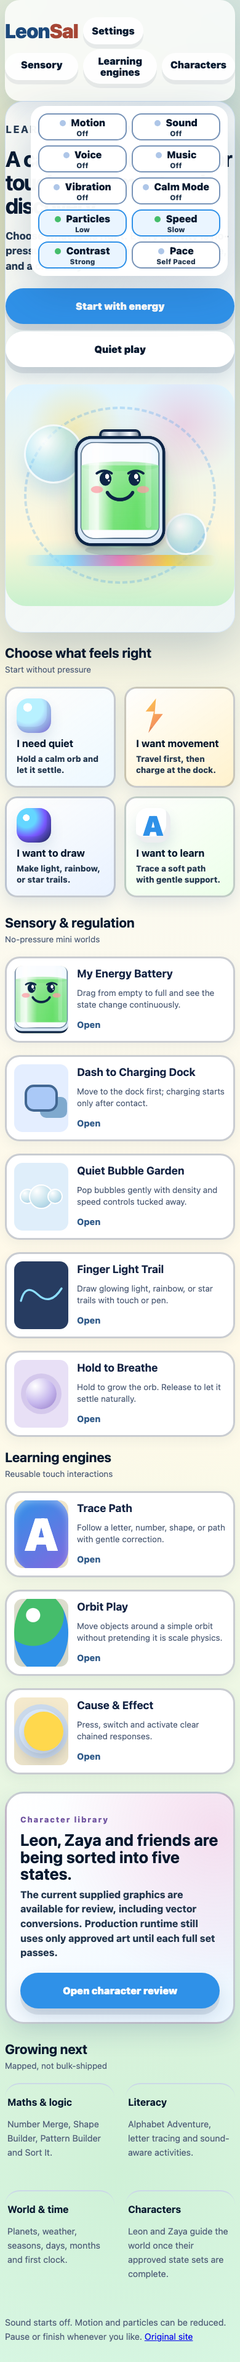
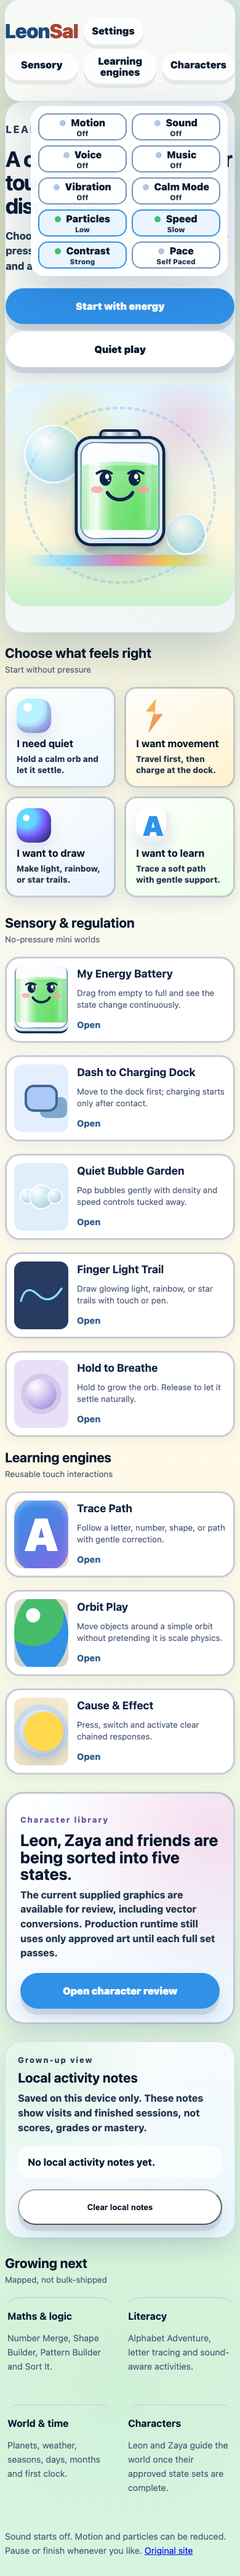
Add local V2 activity notes

diff --git a/js/v2-home.js b/js/v2-home.js
@@ -16,6 +16,45 @@
   apply();
   settings.on('settings-change', apply);
 
+  const progressHost = document.getElementById('progressSummary');
+  const clearProgress = document.getElementById('clearProgress');
+  const profile = new LeonSalV2.ProfileProgressStoreEngine();
+  const gameNames = {
+    'energy-battery': 'My Energy Battery',
+    'dash-dock': 'Dash to Charging Dock',
+    'bubble-garden': 'Quiet Bubble Garden',
+    'light-trail': 'Finger Light Trail',
+    'hold-to-breathe': 'Hold to Breathe',
+    'trace-engine': 'Trace Path',
+    'orbit-engine': 'Orbit Play',
+    'cause-effect-engine': 'Cause & Effect'
+  };
+
+  const renderProgress = () => {
+    if (!progressHost) return;
+    const entries = Object.entries(profile.value.progress || {})
+      .filter(([, value]) => Number(value.visits || 0) > 0)
+      .sort((a, b) => String(b[1].updatedAt || '').localeCompare(String(a[1].updatedAt || '')))
+      .slice(0, 4);
+    if (!entries.length) {
+      progressHost.innerHTML = '<p>No local activity notes yet.</p>';
+      return;
+    }
+    progressHost.innerHTML = entries.map(([id, value]) => {
+      const finished = profile.value.finished.includes(id);
+      const visits = Number(value.visits || 0);
+      return `<article><strong>${gameNames[id] || id}</strong><span>${visits} visit${visits === 1 ? '' : 's'}${finished ? ' · finished once' : ''}</span></article>`;
+    }).join('');
+  };
+  renderProgress();
+  profile.on('save', renderProgress);
+  clearProgress?.addEventListener('click', () => {
+    profile.clear();
+    renderProgress();
+    clearProgress.textContent = 'Local notes cleared';
+    window.setTimeout(() => { clearProgress.textContent = 'Clear local notes'; }, 1300);
+  });
+
   toggle.addEventListener('click', () => {
     const open = host.dataset.open !== 'true';
     host.dataset.open = String(open);

diff --git a/js/v2-game-shell.js b/js/v2-game-shell.js
@@ -4,11 +4,17 @@
 class LeonSalGameShell {
   static sensoryKeys = ['motion', 'sound', 'voice', 'music', 'vibration', 'calmMode', 'particles', 'speed', 'contrast', 'pace'];
 
-  constructor({ settings, motions = [], audio = [], reset }) {
+  static routeGameId() {
+    return location.pathname.split('/').pop().replace(/^v2-/, '').replace(/\.html$/, '') || 'v2-game';
+  }
+
+  constructor({ settings, motions = [], audio = [], reset, gameId = document.body.dataset.gameId || LeonSalGameShell.routeGameId() }) {
     this.settings = settings;
     this.motions = motions;
     this.audio = audio;
     this.reset = reset;
+    this.gameId = gameId;
+    this.profile = typeof LeonSalV2 !== 'undefined' ? new LeonSalV2.ProfileProgressStoreEngine() : null;
     this.paused = false;
     this.scene = document.querySelector('.game-scene');
     this.settingsPanel = document.querySelector('#settings');
@@ -47,6 +53,7 @@ class LeonSalGameShell {
     }, options);
     this.unsubscribe = settings.on('settings-change', () => this.applySettings());
     this.applySettings();
+    this.profile?.record(this.gameId, { visits: ((this.profile.value.progress[this.gameId]?.visits || 0) + 1) });
   }
   closeSettings(focus = false) {
     if (!this.settingsPanel) return;
@@ -70,6 +77,7 @@ class LeonSalGameShell {
     document.body.dataset.paused = 'true';
     this.dialog.querySelector('h2').textContent = finished ? 'All done for now' : 'Take your time';
     this.dialog.querySelector('p').textContent = finished ? 'You can play again or choose something else.' : 'Stay here as long as you like.';
+    if (finished) this.profile?.markFinished(this.gameId);
     this.closeSettings();
     if (!this.dialog.open) this.dialog.showModal();
   }

diff --git a/v2-proofs.css b/v2-proofs.css
@@ -803,6 +803,56 @@ body[data-contrast="strong"] .game-topbar {
   font-weight: 760;
   line-height: 1.48;
 }
+.hub-progress-panel {
+  display: grid;
+  grid-template-columns: minmax(0, 1.05fr) minmax(240px, 1.2fr) auto;
+  gap: 18px;
+  align-items: center;
+  margin: 28px 0;
+  padding: clamp(20px, 3vw, 28px);
+  border: 1px solid rgba(198, 218, 240, .82);
+  border-radius: 28px;
+  background:
+    radial-gradient(circle at 9% 15%, rgba(69,189,107,.16), transparent 13rem),
+    linear-gradient(145deg, rgba(255,255,255,.96), rgba(237,248,255,.94));
+  box-shadow: var(--shadow);
+}
+.hub-progress-panel h2 {
+  margin: 6px 0 8px;
+  font-size: clamp(1.35rem, 2.6vw, 2.1rem);
+}
+.hub-progress-panel p {
+  margin: 0;
+  color: var(--muted);
+  font-weight: 760;
+  line-height: 1.5;
+}
+.progress-summary {
+  display: grid;
+  gap: 8px;
+}
+.progress-summary p {
+  padding: 14px 16px;
+  border-radius: 18px;
+  background: rgba(255,255,255,.72);
+  color: var(--soft-ink);
+}
+.progress-summary article {
+  display: flex;
+  justify-content: space-between;
+  gap: 12px;
+  min-height: 48px;
+  padding: 12px 14px;
+  border-radius: 18px;
+  background: rgba(255,255,255,.78);
+  color: var(--ink);
+  font-size: .92rem;
+}
+.progress-summary span {
+  color: var(--muted);
+  font-weight: 850;
+  text-align: right;
+}
 .hub-planned article {
   min-height: 156px;
   border-radius: 24px;
@@ -900,7 +950,13 @@ body[data-calm="true"] .hub-art {
   .hub-character-panel {
     grid-template-columns: 1fr;
   }
+  .hub-progress-panel {
+    grid-template-columns: 1fr;
+  }
   .hub-character-panel .hub-primary {
+    width: 100%;
+  }
+  .hub-progress-panel .hub-secondary {
     width: 100%;
   }
 }

diff --git a/v2-home.html b/v2-home.html
@@ -82,6 +82,16 @@
       <a class="hub-primary" href="character-review.html">Open character review</a>
     </section>
 
+    <section class="hub-progress-panel" aria-labelledby="progress-title">
+      <div>
+        <p class="eyebrow">Grown-up view</p>
+        <h2 id="progress-title">Local activity notes</h2>
+        <p>Saved on this device only. These notes show visits and finished sessions, not scores, grades or mastery.</p>
+      </div>
+      <div class="progress-summary" id="progressSummary" aria-live="polite"></div>
+      <button class="hub-secondary" id="clearProgress" type="button">Clear local notes</button>
+    </section>
+
     <section aria-labelledby="next-title">
       <div class="world-section-heading"><h2 id="next-title">Growing next</h2><span>Mapped, not bulk-shipped</span></div>
       <div class="planned-worlds hub-planned">

diff --git a/docs/LEONSAL_COMPLETION_CHECKLIST.md b/docs/LEONSAL_COMPLETION_CHECKLIST.md
@@ -32,6 +32,7 @@
 - [x] Suppress trail/bubble decoration when motion/particle preferences disallow it.
 - [x] Correct stale BAT-FACE-001 documentation against recorded work-item evidence.
 - [x] Add reusable browser checks and screenshots, preserving approved Battery artwork and registry bytes.
+- [x] Add local-only V2 activity notes for caregiver review: visits and Finished sessions are recorded without scores, grades or mastery claims.
 
 These changes remain preview work. They do not approve character art, claim production deployment, or complete all foundation contracts.
 
@@ -41,7 +42,7 @@ These changes remain preview work. They do not approve character art, claim prod
 - [ ] Complete full game-module preload/mount/start/pause/resume/reset/settings/destroy lifecycle, resource ownership, and repeat-route cleanup tests. The current shared session wrapper handles pause/finish but is not the entire module architecture.
 - [x] Bridge legacy and V2 sensory preference stores for core controls. V2 now validates and exposes motion, sound, voice, music, vibration, calm mode, particles, speed, contrast and pace; the legacy home reads/writes shared motion, sound, vibration and contrast settings. Independent audio levels and deeper profile migration remain outstanding.
 - [x] Implement and verify eight foundation engine contracts: memory-recall, physics-play, character-state-animation, world-shell-progress, asset-loader, performance-monitor, profile-progress-store, hint-feedback. These are foundation primitives, not completed games.
-- [ ] Complete parent/profile/local progress controls, error recovery and offline behaviour with no false saved/mastery claims.
+- [ ] Complete parent/profile controls, error recovery and offline behaviour. Local V2 activity notes now avoid false saved/mastery claims, but multi-profile caregiver controls are not complete.
 - [ ] Implement Sensory Mixer using global preference ceilings; presets do not count as games.
 - [ ] Verify repeated route transitions, background suspension, resource cleanup, performance/long tasks, full accessibility and physical iPhone Safari. Viewport emulation is not physical-device evidence.
 
